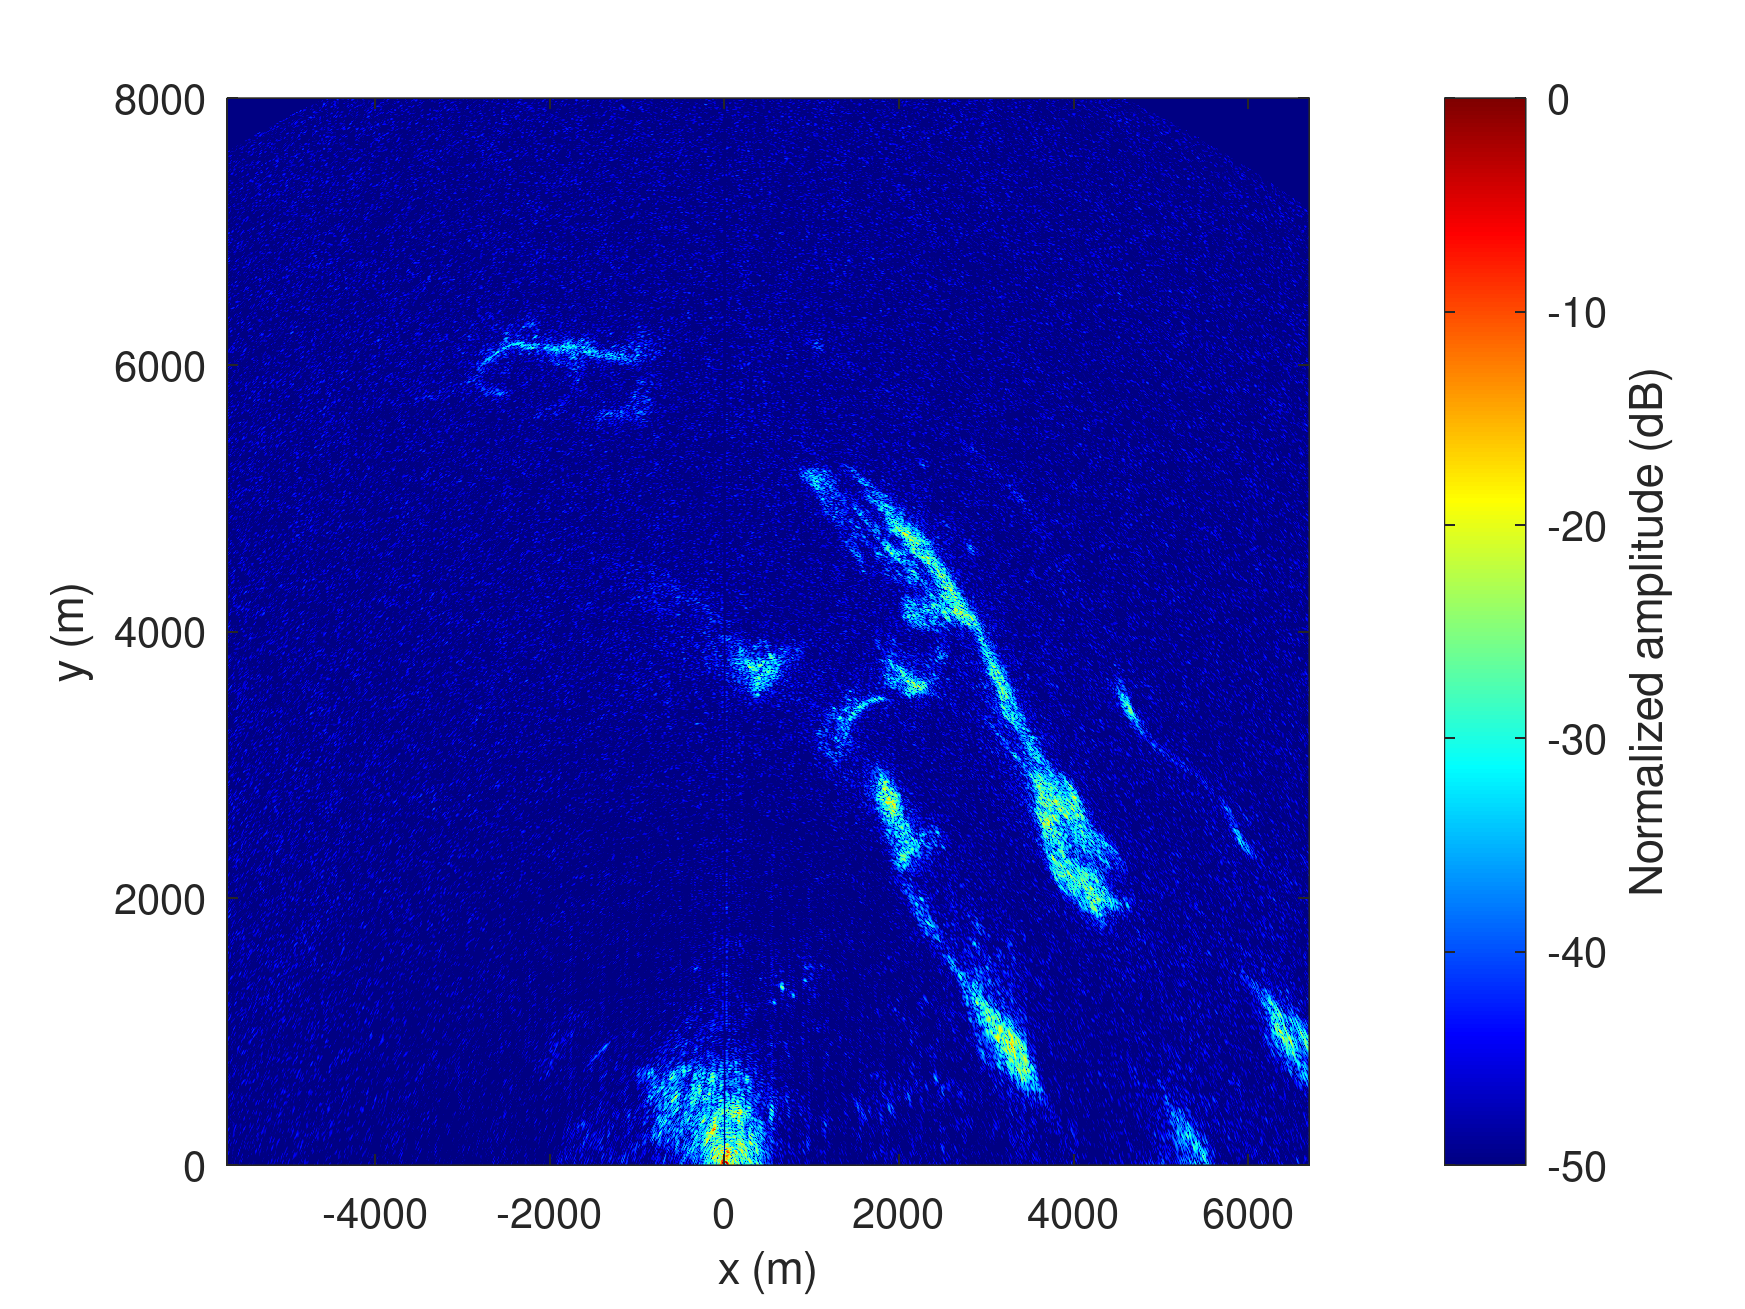
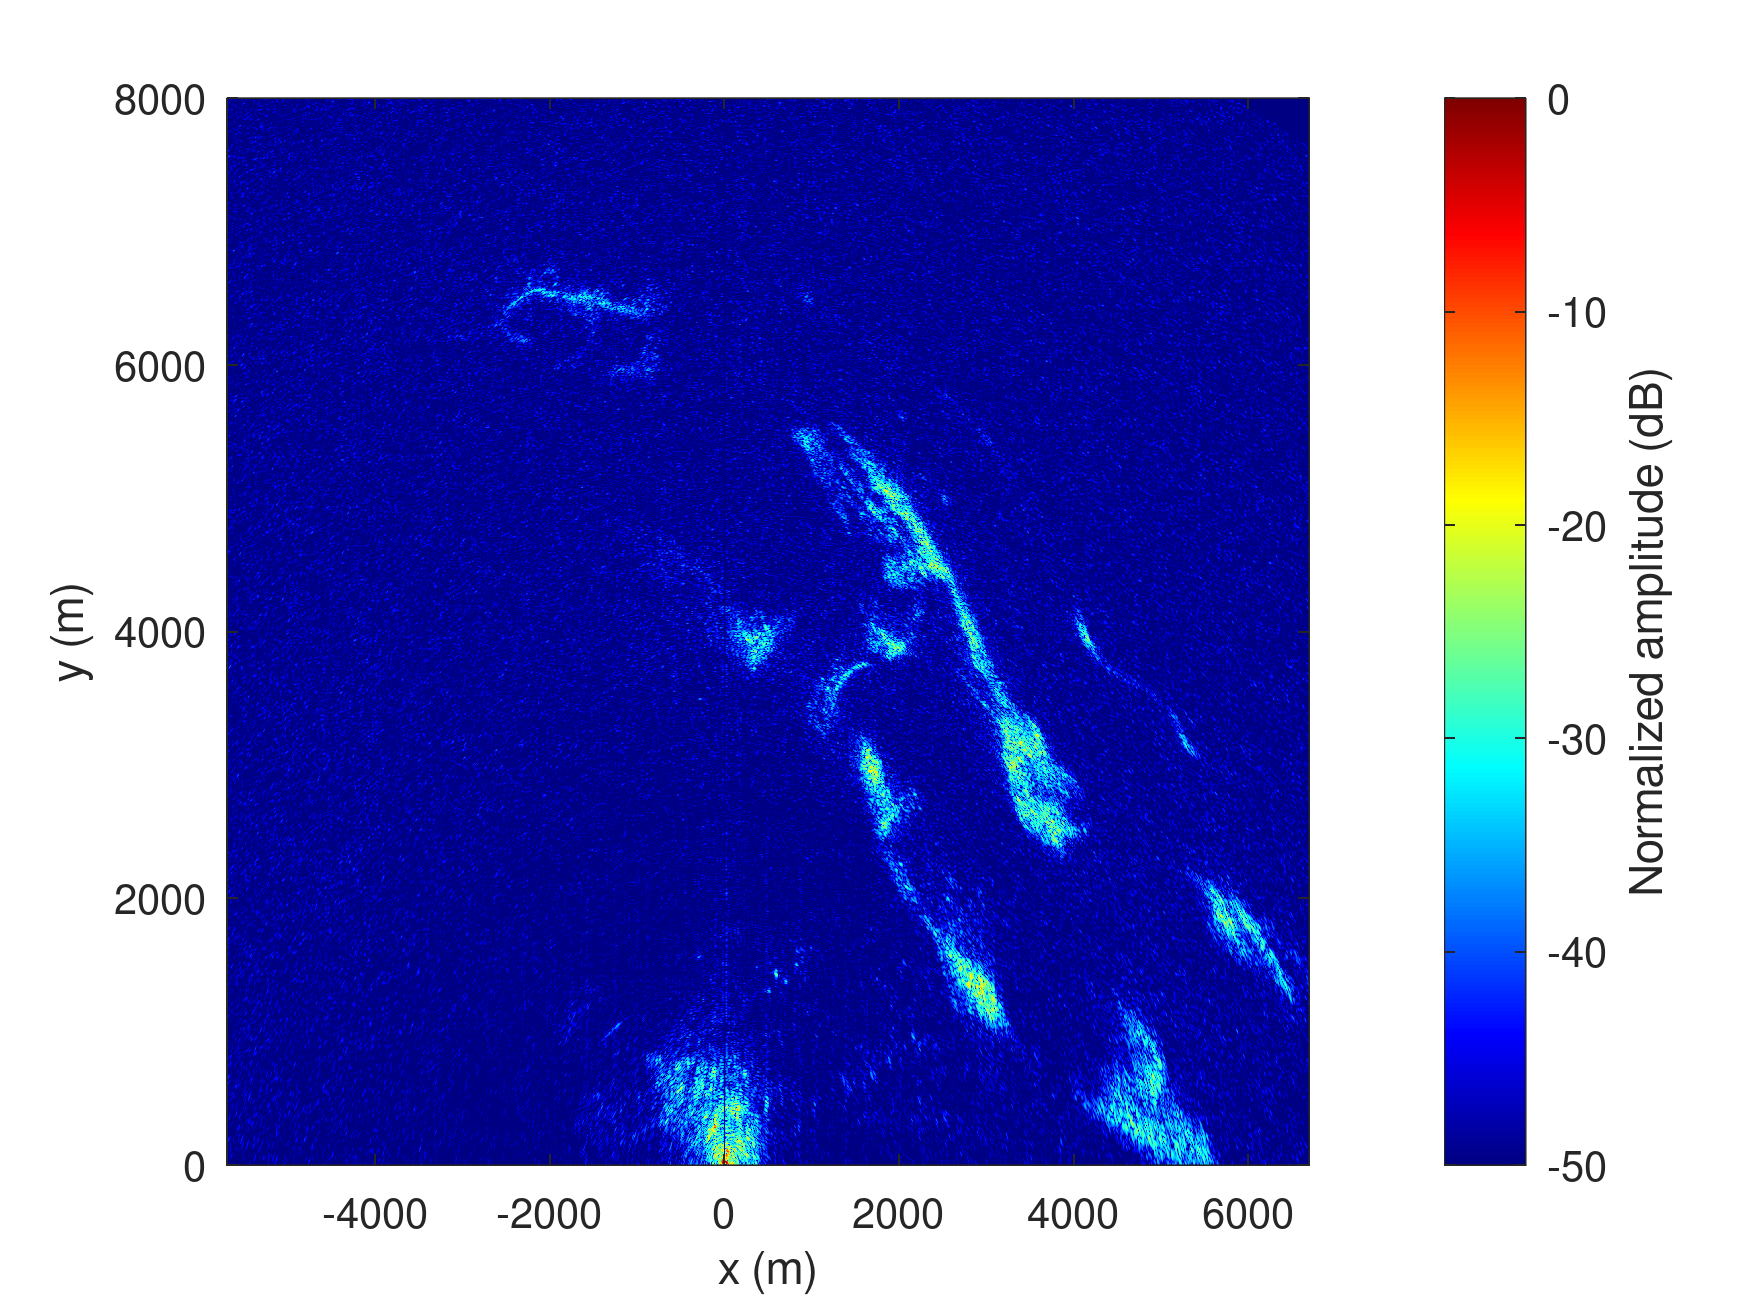
max2771 only

Changed region(s): [[0.1238, 0.0611, 0.7736, 0.8862]]

diff --git a/261121/nisarmax2771_process6.m b/261121/nisarmax2771_process6.m
@@ -1,0 +1,157 @@
+load max2771_kpos.mat
+
+if (exist('kposstart')==0) kposstart=6701;       end;
+if (exist('filename')==0) filename='12cut.bin';end;
+if (exist('Nr')==0)       Nr=2501;              end;
+if (exist('P')==0)        P=2301;               end;
+if (exist('theta0')==0)    theta0 = 44*pi/180;   end
+
+kposstart
+
+%% Parameters
+c = 3e8;
+fc = 1229e6; % c/lembda;
+lembda = c/fc; % 24e-2;
+
+H = 750.2e3;       % TLE Celestrak (semi-major axis)
+beta_sat = -H/sin(theta0);
+
+fs = 24e6;
+
+freq = (-(Nr-1)/2:(Nr-1)/2).'/Nr*fs;
+
+orbits_per_day=14.42502395
+orbit_duration=24*3600/orbits_per_day; % second
+Rearth=6371*1e3;                       % meters
+orbit_length=(Rearth+H)*2*pi;
+
+linspeed=orbit_length/orbit_duration
+% linspeed = sqrt(5.972e24*6.67430e-11/(6371e3+H)) % sqrt((G*M)/(R+H)) gravity constant x Earth mass
+
+%% Load data
+f12=fopen(filename);
+
+bit2val=[1,3,-1,-3];
+clear x
+
+%% Find pulses
+% p1 = find(abs(ref1)>70);
+% p2 = p1(1);
+% pindx = p2;
+% do_search = 1;
+% while do_search
+%     ref2 = ref1(p2+200:end);
+%     p1 = find(abs(ref2)>70)+p2+200-1;
+%     if ~isempty(p1)
+%         p2 = p1(1);
+%         pindx = [pindx;p2]; %#ok<AGROW>
+%     else
+%         do_search = 0;
+%     end
+% end
+%pindx=kpos(1000:end-1000);
+
+%% Raw data
+Sref = zeros(Nr,P);
+Ssur = zeros(Nr,P);
+L = 5;
+AS = 50;
+
+kindx=[kposstart:kposstart+P+L];
+pindx=kpos(kindx);
+
+fseek(f12,pindx(1)-AS-1-L, SEEK_CUR);  % packed char = 1x
+x=fread(f12,(pindx(end)-pindx(1)+Nr+L),'uint8');
+i0=bit2val(bitand(x,3)+1);
+q0=bit2val(bitand(bitshift(x,-2),3)+1);
+i1=bit2val(bitand(bitshift(x,-4),3)+1);
+q1=bit2val(bitand(bitshift(x,-6),3)+1);
+ref1=i1-j*q1;ref1=ref1.';
+sur1=i0-j*q0;sur1=sur1.';
+
+pindx=pindx-(pindx(1)-AS)+1+L;
+clear x
+
+for p = 1:P
+    disp(p);
+    Sref(:,p) = ref1(pindx(p)-AS:pindx(p)-AS+Nr-1);
+    Sref(:,p) = Sref(:,p)-mean(Sref(:,p));
+%     Sls = zeros(Nr,L);
+%     for l = -(L-1)/2:(L-1)/2
+%         Sls(:,l+(L-1)/2+1) = ref1(pindx(p)-AS+l:pindx(p)-AS+Nr-1+l);
+%     end
+%     temp = sur1(pindx(p)-AS:pindx(p)-AS+Nr-1);
+%     Ssur(:,p) = temp-Sls*pinv(Sls)*temp;
+    Ssur(:,p) = sur1(pindx(p)-AS:pindx(p)-AS+Nr-1);
+    Ssur(:,p) = Ssur(:,p)-mean(Ssur(:,p));
+ end
+N = length(ref1);
+t = (0:N-1)/fs;
+t1 = t(1:end);
+
+t0 = t1(round(pindx(1:end-3))-round(AS)).';t0 = t0(1:P);
+t0 = t0-(t0(1)+t0(end))/2;
+% load t0.mat t0;
+
+Sref_fft = zeros(Nr,P);
+Ssur_fft = zeros(Nr,P);
+S = zeros(Nr,P);
+for p = 1:P
+    Sref_fft(:,p) = fftshift(fft(Sref(:,p)));
+    Ssur_fft(:,p) = fftshift(fft(Ssur(:,p)));
+    S(:,p) = Ssur_fft(:,p).*conj(Sref_fft(:,p));
+end
+
+save -mat S_2501_2301_max2771.mat S kindx
+%load S.mat S;
+
+clear Sref Ssur
+%% SAR i maging
+al_sat = linspeed*t0;
+
+beta_I = linspace(0,15000,2501);nbe = length(beta_I);
+F1 = exp(-1j*2*pi*freq*beta_I/c)/sqrt(Nr);
+al_I = linspace(-7e-3,7e-3,3501);nal = length(al_I);
+F2 = exp(-1j*2*pi*al_sat*al_I/lembda)/sqrt(P);
+
+% Filter DC and windowing before azimuth compression
+tmp=F1'*S;
+tmp=tmp-mean(tmp,2);  % mean(tmp) is 2501 along range
+%hlen=100;
+%tmp=tmp.*([hamming(hlen)(1:hlen/2) ; ones(P-hlen,1) ; hamming(hlen)(hlen/2+1:end)]*ones(1,length(beta_I)));
+Image_I=tmp*conj(F2);
+
+% Image_I = F1'*S*conj(F2);
+Image_I_db = 20*log10(abs(Image_I)/max(abs(Image_I(:))));
+figure;imagesc(al_I,beta_I,Image_I_db);axis xy;
+colormap(jet);colorbar;clim([-50,0]);
+xlabel('\alpha_{\itI}');ylabel('\beta_{\itI} (m)');
+ylabel(colorbar,'Normalized amplitude (dB)');
+%set(gca,'FontName','Times New Roman','FontSize',14);
+
+%% Image on x-o-y plane
+xm = linspace(0,8e3,3801);nxm = length(xm);
+ym = linspace(-5700,6700,3801);nym = length(ym);
+
+[X,Y] = meshgrid(xm,ym.');A = Y;
+
+tmpA = Y.^2;
+tmpB = H/sin(theta0);
+tmpC = sqrt((H*cot(theta0)+X).^2+Y.^2+H^2)+sqrt(X.^2+Y.^2);
+B1 = -sqrt(4*tmpA.*tmpB.^2.*tmpC.^2-4*tmpA.*tmpC.^4+tmpB.^4.*tmpC.^2-2*tmpB.^2.*tmpC.^4+tmpC.^6)-tmpB.^3+tmpB.*tmpC.^2;
+B2 = 2*(tmpB.^2-tmpC.^2);
+B = B1./B2;
+
+[al_I_grid,beta_I_grid] = meshgrid(al_I,beta_I.');
+al_grid = A./(beta_sat-B);
+beta_grid = sqrt(A.^2+B.^2)+B-A.^2./(beta_sat-B)/2;
+
+Image_xy = interp2(al_I_grid,beta_I_grid,Image_I,al_grid,beta_grid,'linear',0);
+Image_xy_db = 20*log10(abs(Image_xy)/max(abs(Image_xy(:))));
+figure;imagesc(ym,xm,Image_xy_db.');axis xy;
+clim([-50,0]);colormap(jet);colorbar;
+xlabel('x (m)');ylabel('y (m)');
+ylabel(colorbar,'Normalized amplitude (dB)');
+%set(gca,'FontName','Times New Roman','FontSize',14);
+
+save -mat max2771_ifft.mat Image_xy

diff --git a/261121/go_max2771_packed.m b/261121/go_max2771_packed.m
@@ -1,0 +1,74 @@
+if exist ('OCTAVE_VERSION')
+  pkg load signal
+end
+
+if (exist('filename')==0) filename='12cut.bin';end
+
+threshold=5
+bit2val=[1,3,-1,-3];
+fs=24e6;
+N=fs/4;
+f=fopen(filename);
+
+fseek(f,fs*27);
+x=fread(f,N,'uint8');       % /!\ MUST be unsigned, otherwise the sign of Q1 is lost
+i0=bit2val(bitand(x,3)+1);
+q0=bit2val(bitand(bitshift(x,-2),3)+1);
+i1=bit2val(bitand(bitshift(x,-4),3)+1);
+q1=bit2val(bitand(bitshift(x,-6),3)+1);
+%ref=i0-j*q0;
+ref=i1-j*q1;
+
+%for m=210:280
+%  t=[-m:m]/fs;
+%  c=chirp(t,0,t(end),10e6);
+%  c=c-j*c;
+%  maxi(m)=max(abs(xcorr(c,ref)))
+%end
+%plot(maxi)
+%return
+
+t=[-247:247]/fs;  % 20 us pulsewidth according https://www.eoportal.org/satellite-missions/nisar#sweepsar-discussion "the 20 MHz pulse extent is 20 ms, while the 5 MHz pulse extent is 5 µs, giving a total pulse extent of 25 µs"
+c=chirp(t,0,t(end),10e6);
+
+clear d
+max_PRI=600e-6;  % PRI < 600 us
+min_PRI=400e-6;  % PRI > 400 us
+
+Nmax=round(max_PRI*fs)  % distance between two PRI sweeps
+Nmin=round(min_PRI*fs)  % distance between two PRI sweeps
+m=1;
+q=0;
+refx=[];
+p=1;r=1;
+ng=1;
+do
+  refx=[refx(p:end) abs(xcorr(ref,c)(length(ref):end))]; % matches plot(abs(ref)*10)
+  p=1;
+  do
+    [a(r),b]=max(abs(refx(p:p+Nmin)));
+%    printf("%f %f\n",a(r),median(abs(refx(p:p+Nmax))))
+    if (a(r)>threshold*median(abs(refx(p:p+Nmax))))
+       b=b+p-1;
+%      printf("pulse found: %d\n",p)
+       kpos(m)=b+q;
+       kval(m)=a(r);
+       kmed(m)=median(abs(refx(p:p+Nmax)));
+       p=b+Nmin;
+       m=m+1;
+    else
+       p=p+Nmin;
+%      printf("NG\n")
+    end
+    r=r+1;
+  until (p>length(refx)-Nmax)
+  x=fread(f,N,'uint8'); 
+  i0=bit2val(bitand(x,3)+1);
+  q0=bit2val(bitand(bitshift(x,-2),3)+1);
+  i1=bit2val(bitand(bitshift(x,-4),3)+1);
+  q1=bit2val(bitand(bitshift(x,-6),3)+1);
+  %ref=i0-j*q0;
+  ref=i1-j*q1;
+  q=q+p-1;
+until ((length(x)<N));
+save -mat max2771_kpos.mat kpos

diff --git a/261121/max2771process_packed.m b/261121/max2771process_packed.m
@@ -1,0 +1,76 @@
+pkg load signal
+fs=24e6;
+filename='12cut.bin'
+if (exist('filename')==0) filename='12.bin';end
+
+f=fopen(filename);
+N=fs/100;
+bit2val=[1,3,-1,-3];
+
+x=fread(f,N,'uint8');
+i0=bit2val(bitand(x,3)+1);
+q0=bit2val(bitand(bitshift(x,-2),3)+1);
+i1=bit2val(bitand(bitshift(x,-4),3)+1);
+q1=bit2val(bitand(bitshift(x,-6),3)+1);
+d1=i0+j*q0;
+d2=i1+j*q1;
+
+m=1;
+
+t=[-248:248]/fs;
+c=chirp(t,0,t(end),10e6);
+
+while ((length(d2)==N)) %  && (m<17*100))  % -- 10+17=27
+   ma1(m)=max(real(d1));
+   a1(m)=var(d1);
+   x1(m)=max(abs(xcorr(d1))(N+100:N+5000*4));
+   ma2(m)=max(real(d2));
+   a2(m)=var(d2);
+   x2(m)=max(abs(xcorr(d2))(N+100:N+5000*4));
+   xx1(m)=max(abs(xcorr(d1,c)));
+   xx2(m)=max(abs(xcorr(d2,c)));
+   m=m+1;
+
+   x=fread(f,N,'int8');
+   i0=bit2val(bitand(x,3)+1);
+   q0=bit2val(bitand(bitshift(x,-2),3)+1);
+   i1=bit2val(bitand(bitshift(x,-4),3)+1);
+   q1=bit2val(bitand(bitshift(x,-6),3)+1);
+   d1=i0+j*q0;
+   d2=i1+j*q1;
+%   waitbar((m-1)*N*2/dirlist.bytes)
+end
+
+if (1==0)
+figure
+subplot(311)
+plot([0:length(a1)-1]/fs*N,a1);axis tight
+ylabel('power (a.u.)')
+subplot(312)
+plot([0:length(x1)-1]/fs*N,x1);axis tight
+ylabel('autocorrelation (a.u.)')
+subplot(313)
+plot([0:length(x1)-1]/fs*N,ma1);axis tight
+ylabel('max I (a.u.)')
+xlabel('time (s)')
+
+figure
+subplot(311)
+plot([0:length(a2)-1]/fs*N,a2);axis tight
+ylabel('power (a.u.)')
+subplot(312)
+plot([0:length(x2)-1]/fs*N,x2);axis tight
+ylabel('autocorrelation (a.u.)')
+subplot(313)
+plot([0:length(x2)-1]/fs*N,ma2);axis tight
+ylabel('max I (a.u.)')
+xlabel('time (s)')
+end
+
+figure
+subplot(211)
+plot([0:length(xx1)-1]/fs*N,xx1);axis tight
+ylabel('xcorr ch1 (a.u.)')
+subplot(212)
+plot([0:length(xx2)-1]/fs*N,xx2);axis tight
+ylabel('xcorr ch2 (a.u.)')

diff --git a/261121/README.md b/261121/README.md
@@ -1,0 +1,33 @@
+# MAX2771 acquistion (B210 failed)
+
+<img src="2026-11-21-194649_1024x768_scrot.png">
+
+```
+raspberrypi:~ $ sudo ./PocketSDR/app/pocket_conf/pocket_conf pocket_NISAR_24MHz.conf
+Pocket SDR device settings are changed.
+raspberrypi:~ $ sudo rm /tmp/*bin* && sudo ./PocketSDR/app/pocket_dump/pocket_dump -t 60  -r /tmp/12.bin
+ TIME(s)      RAW8(B) RATE(Ks/s)
+    60.0   1439694848    23992.9
+```
+
+```
+octave:> 34*24e6
+ans = 816000000
+octave:> 12*24e6
+ans = 288000000
+head -c 816000000 12.bin | tail -c 288000000 > 12cut.bin
+```
+
+go_max2771_packed.m
+max2771_all.mat.gz
+max2771_all.png
+max2771_alpha_beta.png
+max2771_ifft.mat
+max2771_kpos.mat
+max2771process_packed.m
+max2771_XY.png
+max2771_zoom.mat.gz
+max2771_zoom.png
+nisarmax2771_process6.m
+README.md
+S_2501_2301_max2771.mat
